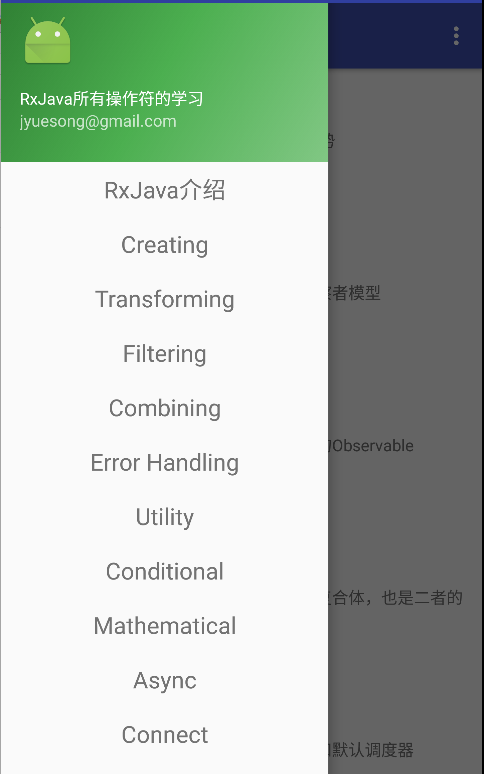
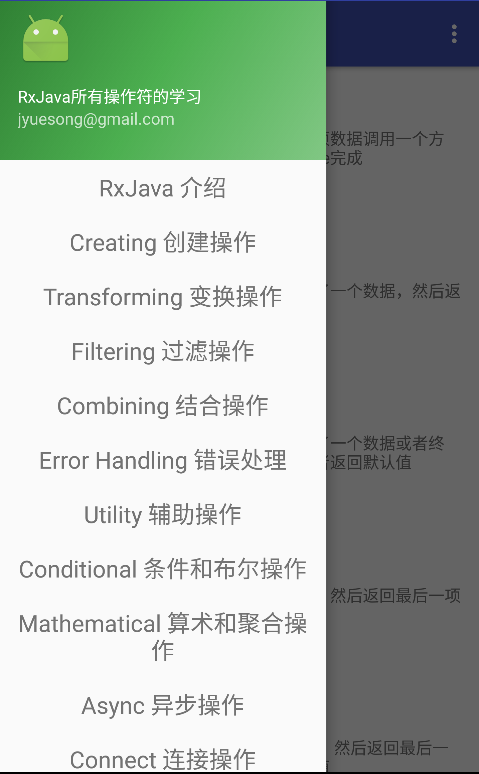
finish

diff --git a/app/src/main/java/com/jiang/android/rxjavaapp/utils/DataUtils.java b/app/src/main/java/com/jiang/android/rxjavaapp/utils/DataUtils.java
@@ -82,25 +82,24 @@ public class DataUtils {
 
     public static List<operators> getOperatorsData() {
         List<operators> lists = new ArrayList<>();
-        lists.add(new operators(1l, "RxJava介绍", 1l));
-        lists.add(new operators(2l, "Creating", 2l));
-        lists.add(new operators(3l, "Transforming", 3l));
-        lists.add(new operators(4l, "Filtering", 4l));
-        lists.add(new operators(5l, "Combining", 5l));
-        lists.add(new operators(6l, "Error Handling", 6l));
-        lists.add(new operators(7l, "Utility", 7l));
-        lists.add(new operators(8l, "Conditional", 8l));
-        lists.add(new operators(9l, "Mathematical", 9l));
-        lists.add(new operators(10l, "Async", 10l));
-        lists.add(new operators(11l, "Connect", 11l));
-        lists.add(new operators(12l, "Convert", 12l));
-        lists.add(new operators(13l, "Blocking", 13l));
-        lists.add(new operators(14l, "String", 14l));
+        lists.add(new operators(1l, "RxJava 介绍", 1l));
+        lists.add(new operators(2l, "Creating 创建操作", 2l));
+        lists.add(new operators(3l, "Transforming 变换操作", 3l));
+        lists.add(new operators(4l, "Filtering 过滤操作", 4l));
+        lists.add(new operators(5l, "Combining 结合操作", 5l));
+        lists.add(new operators(6l, "Error Handling 错误处理", 6l));
+        lists.add(new operators(7l, "Utility 辅助操作", 7l));
+        lists.add(new operators(8l, "Conditional 条件和布尔操作", 8l));
+        lists.add(new operators(9l, "Mathematical 算术和聚合操作", 9l));
+        lists.add(new operators(10l, "Async 异步操作", 10l));
+        lists.add(new operators(11l, "Connect 连接操作", 11l));
+        lists.add(new operators(12l, "Blocking 阻塞操作", 12l));
+        lists.add(new operators(13l, "String 字符串操作", 13l));
+        lists.add(new operators(14l, "其他的相关操作", 14l));
         return lists;
     }
 
     public static List<alloperators> getAllOperators() {
-
         List<alloperators> alloperatorses = new ArrayList<>();
         getIntroduceList(alloperatorses);
         getCreatingList(alloperatorses);
@@ -109,11 +108,31 @@ public class DataUtils {
         getCombinList(alloperatorses);
         getErrorList(alloperatorses);
         getUtilityList(alloperatorses);
+        getConditionalList(alloperatorses);
+        getMathList(alloperatorses);
+        getSayncList(alloperatorses);
+        getConnectList(alloperatorses);
+        getBlockList(alloperatorses);
         getStringList(alloperatorses);
+        getOthersList(alloperatorses);
         return alloperatorses;
     }
 
+    private static void getOthersList(List<alloperators> alloperatorses) {
+        alloperatorses.add(new alloperators(i++, "实现自己的操作符", "实现自己的操作符", CommonString.SPLASH_INDEX_URL, OperatorsUrl.OWN_OPERATE, parentId));
+        alloperatorses.add(new alloperators(i++, "自定义插件", "自定义插件", CommonString.SPLASH_INDEX_URL, OperatorsUrl.OWN_CHAJIAN, parentId));
+        alloperatorses.add(new alloperators(i++, "Android模块", "Android模块", CommonString.SPLASH_INDEX_URL, OperatorsUrl.ANDROID_MODULE, parentId));
+        alloperatorses.add(new alloperators(i++, "错误处理", "错误处理", CommonString.SPLASH_INDEX_URL, OperatorsUrl.ERROR_HANDLE, parentId));
 
+        parentId++;
+    }
+
+
+    /**
+     * string 操作符
+     *
+     * @param alloperatorses
+     */
     private static void getStringList(List<alloperators> alloperatorses) {
         alloperatorses.add(new alloperators(i++, "byLine()", "将一个字符串的Observable转换为一个行序列的Observable，这个Observable将原来的序列当做流处理，然后按换行符分割", CommonString.byLine, OperatorsUrl.byLine, parentId));
         alloperatorses.add(new alloperators(i++, "decode()", "将一个多字节的字符流转换为一个Observable，它按字符边界发射字节数组", CommonString.decode, OperatorsUrl.decode, parentId));
@@ -123,6 +142,79 @@ public class DataUtils {
         alloperatorses.add(new alloperators(i++, "split()", "将一个发射字符串的Observable转换为另一个发射字符串的Observable，后者使用一个指定的正则表达式边界分割前者发射的所有字符串", CommonString.split, OperatorsUrl.split, parentId));
         alloperatorses.add(new alloperators(i++, "stringConcat()", "将一个发射字符串序列的Observable转换为一个发射单个字符串的Observable，后者连接前者发射的所有字符串", CommonString.stringConcat, OperatorsUrl.stringConcat, parentId));
         parentId++;
+    }
+
+
+    private static void getBlockList(List<alloperators> alloperatorses) {
+        alloperatorses.add(new alloperators(i++, "forEach()", "对Observable发射的每一项数据调用一个方法，会阻塞直到Observable完成", CommonString.forEach, OperatorsUrl.forEach, parentId));
+        alloperatorses.add(new alloperators(i++, "first()", "阻塞直到Observable发射了一个数据，然后返回第一项数据", CommonString.first, OperatorsUrl.first, parentId));
+        alloperatorses.add(new alloperators(i++, "firstOrDefault()", "阻塞直到Observable发射了一个数据或者终止，返回第一项数据，或者返回默认值", CommonString.firstOrDefault, OperatorsUrl.firstOrDefault, parentId));
+        alloperatorses.add(new alloperators(i++, "last()", "阻塞直到Observable终止，然后返回最后一项数据", CommonString.last, OperatorsUrl.last, parentId));
+        alloperatorses.add(new alloperators(i++, "lastOrDefault()", " 阻塞直到Observable终止，然后返回最后一项的数据，或者返回默认值", CommonString.lastOrDefault, OperatorsUrl.lastOrDefault, parentId));
+        alloperatorses.add(new alloperators(i++, "mostRecent()", "返回一个总是返回Observable最近发射的数据的iterable", CommonString.mostRecent, OperatorsUrl.mostRecent, parentId));
+        alloperatorses.add(new alloperators(i++, "next()", "返回一个Iterable，会阻塞直到Observable发射了另一个值，然后返回那个值", CommonString.next, OperatorsUrl.next, parentId));
+        alloperatorses.add(new alloperators(i++, "single()", " 如果Observable终止时只发射了一个值，返回那个值，否则抛出异常", CommonString.single, OperatorsUrl.single, parentId));
+        alloperatorses.add(new alloperators(i++, "singleOrDefault()", "如果Observable终止时只发射了一个值，返回那个值，否则否好默认值", CommonString.singleOrDefault, OperatorsUrl.singleOrDefault, parentId));
+        alloperatorses.add(new alloperators(i++, "toFuture()", "将Observable转换为一个Future", CommonString.toFuture, OperatorsUrl.toFuture, parentId));
+        alloperatorses.add(new alloperators(i++, "toIterable()", "将一个发射数据序列的Observable转换为一个Iterable", CommonString.toIterable, OperatorsUrl.toIterable, parentId));
+        alloperatorses.add(new alloperators(i++, "getIterator()", " 将一个发射数据序列的Observable转换为一个Iterator", CommonString.getIterator, OperatorsUrl.getIterator, parentId));
+
+        parentId++;
+    }
+
+    private static void getConnectList(List<alloperators> alloperatorses) {
+        alloperatorses.add(new alloperators(i++, "ConnectableObservable.connect()", "指示一个可连接的Observable开始发射数据", CommonString.connect, OperatorsUrl.connect, parentId));
+        alloperatorses.add(new alloperators(i++, "ConnectableObservable.publish()", "将一个Observable转换为一个可连接的Observable", CommonString.publish, OperatorsUrl.publish, parentId));
+        alloperatorses.add(new alloperators(i++, "ConnectableObservable.replay()", "确保所有的订阅者看到相同的数据序列，即使它们在Observable开始发射数据之后才订阅", CommonString.replay, OperatorsUrl.replay, parentId));
+        alloperatorses.add(new alloperators(i++, "ConnectableObservable.refCount()", "让一个可连接的Observable表现得像一个普通的Observable", CommonString.refCount, OperatorsUrl.refCount, parentId));
+        parentId++;
+    }
+
+
+    private static void getSayncList(List<alloperators> alloperatorses) {
+        alloperatorses.add(new alloperators(i++, "start()", "创建一个Observable，它发射一个函数的返回值", CommonString.start, OperatorsUrl.start, parentId));
+        alloperatorses.add(new alloperators(i++, "toAsync() or asyncAction() or asyncFunc()", " 将一个函数或者Action转换为已Observable，它执行这个函数并发射函数的返回值", CommonString.toAsync, OperatorsUrl.start, parentId));
+        alloperatorses.add(new alloperators(i++, "startFuture()", "将一个返回Future的函数转换为一个Observable，它发射Future的返回值", CommonString.startFuture, OperatorsUrl.start, parentId));
+        alloperatorses.add(new alloperators(i++, "deferFuture()", "将一个返回Observable的Future转换为一个Observable，但是并不尝试获取这个Future返回的Observable，直到有订阅者订阅它", CommonString.deferFuture, OperatorsUrl.start, parentId));
+        alloperatorses.add(new alloperators(i++, "forEachFuture()", "传递Subscriber方法给一个Subscriber，但是同时表现得像一个Future一样阻塞直到它完成", CommonString.forEachFuture, OperatorsUrl.start, parentId));
+        alloperatorses.add(new alloperators(i++, "fromAction()", "将一个Action转换为Observable，当一个订阅者订阅时，它执行这个action并发射它的返回值", CommonString.fromAction, OperatorsUrl.start, parentId));
+        alloperatorses.add(new alloperators(i++, "fromCallable()", "将一个Callable转换为Observable，当一个订阅者订阅时，它执行这个Callable并发射Callable的返回值，或者发射异常", CommonString.fromCallable, OperatorsUrl.start, parentId));
+        alloperatorses.add(new alloperators(i++, "fromRunnable()", "convert a Runnable into an Observable that invokes the runable and emits its result when a Subscriber subscribes将一个Runnable转换为Observable，当一个订阅者订阅时，它执行这个Runnable并发射Runnable的返回值", CommonString.fromRunnable, OperatorsUrl.start, parentId));
+        alloperatorses.add(new alloperators(i++, "runAsync()", "返回一个StoppableObservable，它发射某个Scheduler上指定的Action生成的多个actions", CommonString.runAsync, OperatorsUrl.start, parentId));
+        parentId++;
+    }
+
+    private static void getMathList(List<alloperators> alloperatorses) {
+        alloperatorses.add(new alloperators(i++, "rxjava-math模块", "模块的操作符", CommonString.MATH, OperatorsUrl.MATH, parentId));
+        alloperatorses.add(new alloperators(i++, "concat()", "顺序连接多个Observables", CommonString.concat, OperatorsUrl.concat, parentId));
+        alloperatorses.add(new alloperators(i++, "count() and countLong()", "计算数据项的个数并发射结果", CommonString.count, OperatorsUrl.count, parentId));
+        alloperatorses.add(new alloperators(i++, "reduce()", "对序列使用reduce()函数并发射对吼的结果", CommonString.reduce, OperatorsUrl.reduce, parentId));
+        alloperatorses.add(new alloperators(i++, "collect()", "将原始Observable发射的数据放到一个单一的可变的数据结构中，然后返回一个发射这个数据结构的Observable", CommonString.collect, OperatorsUrl.collect, parentId));
+        alloperatorses.add(new alloperators(i++, "toList()", "收集原始Observable发射的所有数据到一个列表，然后返回这个列表", CommonString.toList, OperatorsUrl.toList, parentId));
+        alloperatorses.add(new alloperators(i++, "toSortedList()", "收集原始Observable发射的所有数据到一个有序列表，然后返回这个列表", CommonString.toSortedList, OperatorsUrl.toSortedList, parentId));
+        alloperatorses.add(new alloperators(i++, "toMap()", "将序列数据转换为一个Map，Map的key是根据一个函数计算的", CommonString.toMap, OperatorsUrl.toMap, parentId));
+        alloperatorses.add(new alloperators(i++, "toMultiMap()", "将序列数据转换为一个列表，同时也是一个Map，Map的key是根据一个函数计算的", CommonString.toMultiMap, OperatorsUrl.toMultiMap, parentId));
+        parentId++;
+    }
+
+    private static void getConditionalList(List<alloperators> alloperatorses) {
+        alloperatorses.add(new alloperators(i++, "amb()", "给定多个Observable，只让第一个发射数据的Observable发射全部数据", CommonString.amb, OperatorsUrl.amb, parentId));
+        alloperatorses.add(new alloperators(i++, "defaultIfEmpty()", "发射来自原始Observable的数据，如果原始Observable没有发射数据，就发射一个默认数据", CommonString.defaultIfEmpty, OperatorsUrl.amb, parentId));
+        alloperatorses.add(new alloperators(i++, "doWhile()", "发射原始Observable的数据序列，然后重复发射这个序列直到不满足这个条件为止", CommonString.doWhile, OperatorsUrl.amb, parentId));
+        alloperatorses.add(new alloperators(i++, "ifThen()", "只有当某个条件为真时才发射原始Observable的数据序列，否则发射一个空的或默认的序列", CommonString.ifThen, OperatorsUrl.amb, parentId));
+        alloperatorses.add(new alloperators(i++, "skipUntil()", "丢弃原始Observable发射的数据，直到第二个Observable发射了一个数据，然后发射原始Observable的剩余数据", CommonString.skipUntil, OperatorsUrl.amb, parentId));
+        alloperatorses.add(new alloperators(i++, "skipWhile()", "丢弃原始Observable发射的数据，直到一个特定的条件为假，然后发射原始Observable剩余的数据", CommonString.skipWhile, OperatorsUrl.amb, parentId));
+        alloperatorses.add(new alloperators(i++, "switchCase()", "基于一个计算结果，发射一个指定Observable的数据序列", CommonString.switchCase, OperatorsUrl.amb, parentId));
+        alloperatorses.add(new alloperators(i++, "takeUntil()", "发射来自原始Observable的数据，直到第二个Observable发射了一个数据或一个通知", CommonString.takeUntil, OperatorsUrl.amb, parentId));
+        alloperatorses.add(new alloperators(i++, "takeWhile(),takeWhileWithIndex()", "射原始Observable的数据，直到一个特定的条件为真，然后跳过剩余的数据", CommonString.takeWhile, OperatorsUrl.amb, parentId));
+        alloperatorses.add(new alloperators(i++, "whileDo()", "if a condition is true, emit the source Observable's sequence and then repeat the sequence as long as the condition remains true如果满足一个条件，发射原始Observable的数据，然后重复发射直到不满足这个条件为止", CommonString.takeWhile, CommonString.GITHUB_URL, parentId));
+
+        alloperatorses.add(new alloperators(i++, "all()", "判断是否所有的数据项都满足某个条件", CommonString.all, OperatorsUrl.BOOLEAN_ALL, parentId));
+        alloperatorses.add(new alloperators(i++, "contains()", "判断Observable是否会发射一个指定的值", CommonString.contains, OperatorsUrl.BOOLEAN_ALL, parentId));
+        alloperatorses.add(new alloperators(i++, "exists(),isEmpty()", "判断Observable是否发射了一个值", CommonString.exists, OperatorsUrl.BOOLEAN_ALL, parentId));
+        alloperatorses.add(new alloperators(i++, "sequenceEqual()", " test the equality of the sequences emitted by two Observables判断两个Observables发射的序列是否相等", CommonString.sequenceEqual, OperatorsUrl.BOOLEAN_ALL, parentId));
+        parentId++;
+
     }
 
 
@@ -174,6 +266,8 @@ public class DataUtils {
 
     private static void getIntroduceList(List<alloperators> alloperatorses) {
         alloperatorses.add(new alloperators(i++, "ReactiveX", "什么是Rx，Rx的理念和优势", CommonString.SPLASH_INDEX_URL, OperatorsUrl.INTRODUCE, parentId));
+        alloperatorses.add(new alloperators(i++, "RxJava入门指南", "RxJava入门指南", CommonString.SPLASH_INDEX_URL, OperatorsUrl.GUIDE_OPEN, parentId));
+        alloperatorses.add(new alloperators(i++, "RxJava使用示例", "RxJava使用示例", CommonString.SPLASH_INDEX_URL, OperatorsUrl.SAMPLE_FIRST, parentId));
         alloperatorses.add(new alloperators(i++, "Observables", "简要介绍Observable的观察者模型", CommonString.OBSERVABLES, OperatorsUrl.OBSERVABLES, parentId));
         alloperatorses.add(new alloperators(i++, "Single", "一种特殊的只发射单个值的Observable", CommonString.SPLASH_INDEX_URL, OperatorsUrl.SINGLE, parentId));
         alloperatorses.add(new alloperators(i++, "Subject", "Observable和Observer的复合体，也是二者的桥梁", CommonString.SUBJECT, OperatorsUrl.SUBJECT, parentId));

diff --git a/app/src/main/java/com/jiang/android/rxjavaapp/common/CommonString.java b/app/src/main/java/com/jiang/android/rxjavaapp/common/CommonString.java
@@ -127,4 +127,65 @@ public class CommonString {
     public static final String split = "https://github.com/mcxiaoke/RxDocs/raw/master/images/operators/St.split.png";
     public static final String stringConcat = "https://github.com/mcxiaoke/RxDocs/raw/master/images/operators/sum.f.png";
 
+
+    //conditional
+    public static final String amb = "https://github.com/mcxiaoke/RxDocs/raw/master/images/operators/amb.c.png";
+    public static final String defaultIfEmpty = "https://github.com/mcxiaoke/RxDocs/raw/master/images/operators/defaultIfEmpty.c.png";
+    public static final String doWhile = amb;
+    public static final String ifThen = amb;
+    public static final String skipUntil = "https://github.com/mcxiaoke/RxDocs/raw/master/images/operators/skipUntil.c.png";
+    public static final String skipWhile = "https://github.com/mcxiaoke/RxDocs/raw/master/images/operators/skipWhile.c.png";
+    public static final String switchCase = amb;
+    public static final String takeUntil = "https://github.com/mcxiaoke/RxDocs/raw/master/images/operators/takeUntil.png";
+    public static final String takeWhile = "https://github.com/mcxiaoke/RxDocs/raw/master/images/operators/takeWhile.c.png";
+    public static final String whileDo = amb;
+
+    //bool
+    public static final String all = "https://github.com/mcxiaoke/RxDocs/raw/master/images/operators/all.png";
+    public static final String contains = "https://github.com/mcxiaoke/RxDocs/raw/master/images/operators/contains.png";
+    public static final String exists = "https://github.com/mcxiaoke/RxDocs/raw/master/images/operators/exists.png";
+    public static final String sequenceEqual = "https://github.com/mcxiaoke/RxDocs/raw/master/images/operators/sequenceEqual.png";
+
+    public static final String MATH = "https://github.com/mcxiaoke/RxDocs/raw/master/images/operators/collect.png";
+
+
+    // math other
+    public static final String concat = "https://github.com/mcxiaoke/RxDocs/raw/master/images/operators/concat.c.png";
+    public static final String count = "https://github.com/mcxiaoke/RxDocs/raw/master/images/operators/count.c.png";
+    public static final String reduce = "https://github.com/mcxiaoke/RxDocs/raw/master/images/operators/reduce.c.png";
+    public static final String collect = "https://github.com/mcxiaoke/RxDocs/raw/master/images/operators/collect.png";
+    public static final String toList = "https://github.com/mcxiaoke/RxDocs/raw/master/images/operators/toList.png";
+    public static final String toSortedList = "https://github.com/mcxiaoke/RxDocs/raw/master/images/operators/toSortedList.png";
+    public static final String toMap = "https://github.com/mcxiaoke/RxDocs/raw/master/images/operators/toMap.png";
+    public static final String toMultiMap = "https://github.com/mcxiaoke/RxDocs/raw/master/images/operators/toMultiMap.png";
+
+    public static String start = "https://github.com/mcxiaoke/RxDocs/raw/master/images/operators/start.png";
+    public static String toAsync = "https://github.com/mcxiaoke/RxDocs/raw/master/images/operators/toAsync.png";
+    public static String startFuture = "https://github.com/mcxiaoke/RxDocs/raw/master/images/operators/startFuture.png";
+    public static String deferFuture = "https://github.com/mcxiaoke/RxDocs/raw/master/images/operators/deferFuture.png";
+    public static String forEachFuture = "https://github.com/mcxiaoke/RxDocs/raw/master/images/operators/forEachFuture.png";
+    public static String fromAction = start;
+    public static String runAsync = start;
+    public static String fromRunnable = "https://github.com/mcxiaoke/RxDocs/raw/master/images/operators/fromRunnable.png";
+    public static String fromCallable = "https://github.com/mcxiaoke/RxDocs/raw/master/images/operators/fromCallable.png";
+
+    //connect
+    public static String connect = "https://github.com/mcxiaoke/RxDocs/raw/master/images/operators/publishConnect.c.png";
+    public static String publish = "https://github.com/mcxiaoke/RxDocs/raw/master/images/operators/publishConnect.c.png";
+    public static String replay = "https://github.com/mcxiaoke/RxDocs/raw/master/images/operators/replay.c.png";
+    public static String refCount = replay;
+
+    //block
+    public static String forEach=EMPTY;
+    public static String first="https://github.com/mcxiaoke/RxDocs/raw/master/images/operators/first.c.png";
+    public static String firstOrDefault="https://github.com/mcxiaoke/RxDocs/raw/master/images/operators/firstOrDefault.png";
+    public static String last="https://github.com/mcxiaoke/RxDocs/raw/master/images/operators/last.png";
+    public static String lastOrDefault="https://github.com/mcxiaoke/RxDocs/raw/master/images/operators/lastOrDefault.png";
+    public static String mostRecent="https://github.com/mcxiaoke/RxDocs/raw/master/images/operators/first.png";
+    public static String next="https://github.com/mcxiaoke/RxDocs/raw/master/images/operators/takeLast.c.png";
+    public static String single="https://github.com/mcxiaoke/RxDocs/raw/master/images/operators/single.p.png";
+    public static String singleOrDefault="https://github.com/mcxiaoke/RxDocs/raw/master/images/operators/singleOrDefault.p.png";
+    public static String toFuture="https://github.com/mcxiaoke/RxDocs/raw/master/images/operators/B.toFuture.png";
+    public static String toIterable="https://github.com/mcxiaoke/RxDocs/raw/master/images/operators/B.getIterator.png";
+    public static String getIterator="https://github.com/mcxiaoke/RxDocs/raw/master/images/operators/B.getIterator.png";
 }

diff --git a/app/src/main/java/com/jiang/android/rxjavaapp/common/OperatorsUrl.java b/app/src/main/java/com/jiang/android/rxjavaapp/common/OperatorsUrl.java
@@ -134,5 +134,46 @@ public class OperatorsUrl {
     public static final String join = "https://github.com/mcxiaoke/RxDocs/blob/master/operators/Sum.md";
     public static final String split = FLATMAP;
     public static final String stringConcat = join;
+    //conditional
+    public static final String amb = "https://github.com/mcxiaoke/RxDocs/blob/master/operators/Conditional.md";
 
+    //boolean
+    public static final String BOOLEAN_ALL = "https://github.com/mcxiaoke/RxDocs/blob/master/operators/Conditional.md";
+    public static final String MATH = "https://github.com/mcxiaoke/RxDocs/blob/master/operators/Mathematical.md#Average";
+
+    // math other
+    public static final String concat = "https://github.com/mcxiaoke/RxDocs/blob/master/operators/Mathematical.md#Concat";
+    public static final String count = "https://github.com/mcxiaoke/RxDocs/blob/master/operators/Mathematical.md#Concat";
+    public static final String reduce = "https://github.com/mcxiaoke/RxDocs/blob/master/operators/Mathematical.md#Concat";
+    public static final String collect = "https://github.com/mcxiaoke/RxDocs/blob/master/operators/Mathematical.md#Concat";
+    public static final String toList = "https://github.com/mcxiaoke/RxDocs/blob/master/operators/To.md";
+    public static final String toSortedList = "https://github.com/mcxiaoke/RxDocs/blob/master/operators/To.md";
+    public static final String toMap = "https://github.com/mcxiaoke/RxDocs/blob/master/operators/To.md";
+    public static final String toMultiMap = "https://github.com/mcxiaoke/RxDocs/blob/master/operators/To.md";
+    public static final String SAMPLE_FIRST = "https://github.com/mcxiaoke/RxDocs/blob/master/topics/How-To-Use-RxJava.md";
+    public static final String GUIDE_OPEN = "https://github.com/mcxiaoke/RxDocs/blob/master/topics/Getting-Started.md";
+    public static final String OWN_OPERATE = "https://github.com/mcxiaoke/RxDocs/blob/master/topics/Implementing-Your-Own-Operators.md";
+    public static final String OWN_CHAJIAN = "https://github.com/mcxiaoke/RxDocs/blob/master/topics/Plugins.md";
+    public static final String ANDROID_MODULE = "https://github.com/mcxiaoke/RxDocs/blob/master/topics/The-RxJava-Android-Module.md";
+    
+    public static final String ERROR_HANDLE = "https://github.com/mcxiaoke/RxDocs/blob/master/topics/Error-Handling.md";
+    public static String start = "https://github.com/mcxiaoke/RxDocs/blob/master/operators/Start.md#start";
+    //connect
+    public static String connect = "https://github.com/mcxiaoke/RxDocs/blob/master/operators/Connect.md";
+    public static String publish="https://github.com/mcxiaoke/RxDocs/blob/master/operators/Publish.md";
+    public static String replay="https://github.com/mcxiaoke/RxDocs/blob/master/operators/Replay.md";
+    public static String refCount="https://github.com/mcxiaoke/RxDocs/blob/master/operators/Refcount.md";
+    //block
+    public static String forEach="https://github.com/mcxiaoke/RxDocs/blob/master/operators/Subscribe.md";
+    public static String first="https://github.com/mcxiaoke/RxDocs/blob/master/operators/First.md";
+    public static String firstOrDefault="https://github.com/mcxiaoke/RxDocs/blob/master/operators/First.md";
+    public static String lastOrDefault="https://github.com/mcxiaoke/RxDocs/blob/master/operators/Last.md";
+    public static String mostRecent="https://github.com/mcxiaoke/RxDocs/blob/master/operators/First.md";
+    public static String next="https://github.com/mcxiaoke/RxDocs/blob/master/operators/TakeLast.md";
+    public static String single="https://github.com/mcxiaoke/RxDocs/blob/master/operators/First.md";
+    public static String singleOrDefault="https://github.com/mcxiaoke/RxDocs/blob/master/operators/First.md";
+    public static String toFuture="https://github.com/mcxiaoke/RxDocs/blob/master/operators/To.md";
+    public static String toIterable="https://github.com/mcxiaoke/RxDocs/blob/master/operators/To.md";
+    public static String getIterator="https://github.com/mcxiaoke/RxDocs/blob/master/operators/To.md";
+    public static String last="https://github.com/mcxiaoke/RxDocs/blob/master/operators/Last.md";
 }

diff --git a/app/src/main/java/com/jiang/android/rxjavaapp/actiity/MainActivity.java b/app/src/main/java/com/jiang/android/rxjavaapp/actiity/MainActivity.java
@@ -1,5 +1,6 @@
 package com.jiang.android.rxjavaapp.actiity;
 
+import android.content.Intent;
 import android.os.Bundle;
 import android.support.design.widget.NavigationView;
 import android.support.v4.view.GravityCompat;
@@ -9,6 +10,7 @@ import android.support.v7.widget.LinearLayoutManager;
 import android.support.v7.widget.RecyclerView;
 import android.support.v7.widget.Toolbar;
 import android.view.Menu;
+import android.view.MenuItem;
 import android.view.View;
 import android.widget.ImageView;
 import android.widget.LinearLayout;
@@ -29,7 +31,6 @@ import com.nostra13.universalimageloader.core.ImageLoader;
 import java.util.ArrayList;
 import java.util.List;
 
-import de.greenrobot.event.EventBus;
 import rx.Observable;
 import rx.Subscriber;
 import rx.android.schedulers.AndroidSchedulers;
@@ -53,18 +54,9 @@ public class MainActivity extends BaseActivity implements View.OnClickListener {
     private NavigationView navigationView;
     private ActionBarDrawerToggle toggle;
 
-    public void onEventMainThread(int center) {
-        if (center == 1) {
-            initToolBar();
-            initNavigationView();
-            initNavRecycerView();
-            mContentRecyclerView = (RecyclerView) findViewById(R.id.id_content);
-        }
-    }
 
     @Override
     protected void initViewsAndEvents() {
-        EventBus.getDefault().register(this);
         initToolBar();
         initNavigationView();
         initNavRecycerView();
@@ -257,17 +249,39 @@ public class MainActivity extends BaseActivity implements View.OnClickListener {
     @Override
     protected void onDestroy() {
         super.onDestroy();
-        EventBus.getDefault().unregister(this);
     }
 
     @Override
     public boolean onCreateOptionsMenu(Menu menu) {
-        // Inflate the menu; this adds items to the action bar if it is present.
         getMenuInflater().inflate(R.menu.main, menu);
         return true;
     }
 
+    @Override
+    public boolean onOptionsItemSelected(MenuItem item) {
+        switch (item.getItemId()) {
+            case R.id.about:
+                Bundle bundle = new Bundle();
+                bundle.putString(BaseWebActivity.BUNDLE_KEY_URL, "https://github.com/jiang111?tab=repositories");
+                bundle.putString(BaseWebActivity.BUNDLE_KEY_TITLE, "关于");
+                bundle.putBoolean(BaseWebActivity.BUNDLE_KEY_SHOW_BOTTOM_BAR, true);
+                readyGo(BaseWebActivity.class, bundle);
+                break;
+            case R.id.share:
+                shareText(item.getActionView());
+                break;
+        }
 
+
+        return super.onOptionsItemSelected(item);
+    }
+    public void shareText(View view) {
+        Intent shareIntent = new Intent();
+        shareIntent.setAction(Intent.ACTION_SEND);
+        shareIntent.putExtra(Intent.EXTRA_TEXT, "Hi,我正在学习RxJava,推荐你下载这个app一起学习吧 https://github.com/jiang111/RxJavaApp/releases");
+        shareIntent.setType("text/plain");
+        startActivity(Intent.createChooser(shareIntent, "分享到"));
+    }
     @Override
     public void onClick(View v) {
         switch (v.getId()) {
